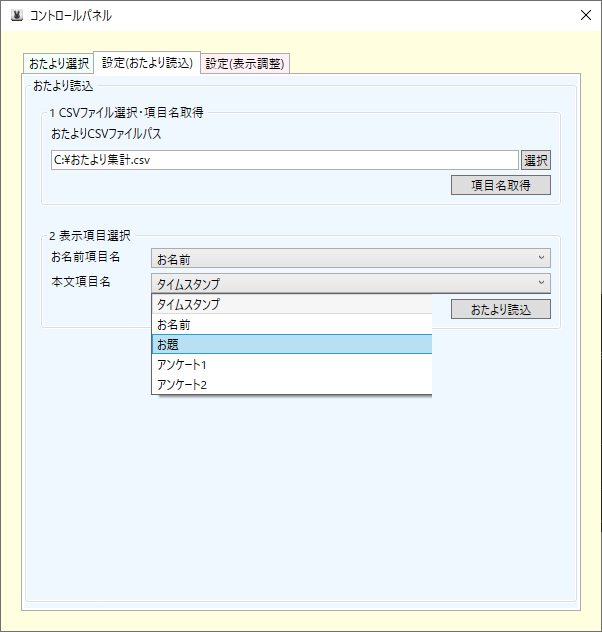
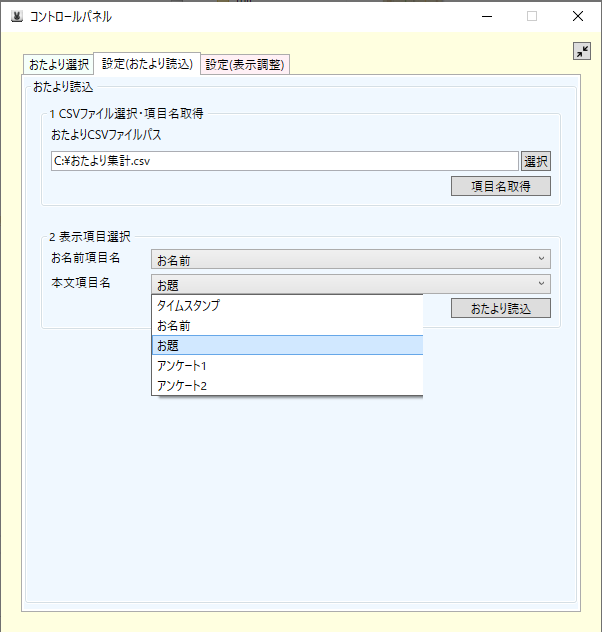
README編集

diff --git a/README.md b/README.md
@@ -4,7 +4,7 @@
 お好みの画像の上にお名前と本文が表示できるよ♪
 
 
-## ☆ちょっとした使い方☆
+## ちょっとした使い方🔰
 
 ### ☆インストールほうほう
 [リリースページ](https://github.com/Kanna-mimimin/TamiradiOtayoriReader/releases)から最新版の「TamiradiOtayoriReader-Ver〇.〇.〇.zip」をダウンロードしてお好みの場所に展開するだけ！
@@ -20,7 +20,7 @@
 <a href="./img/googleforms.png" target="_blank"><img src="./img/googleforms.png" width="200"></a>  
 <br />  
 
-### ☆使ってみる♪
+### ☆使ってみる✨
 1. 起動してみる  
 「TamiradiOtayoriReader.exe」を実行します．
 起動するとデフォルトの画像でおたより画面が表示されます．  
@@ -58,9 +58,25 @@
 <a href="./img/otayori3.png" target="_blank"><img src="./img/otayori3.png" width="250"></a>  
 <br />  
 
+### コントロールパネルを小さくしてみる🆕
+
+コントロールパネル画面右上の縮小ボタンをクリックするとミニコントロールパネルに変化するよ‼  
+<a href="./img/ControlPanel-Nomal.png" target="_blank"><img src="./img/ControlPanel-Nomal.png" width="300"></a>  
+　　⬆  
+　変形‼  
+　　⬇  
+ミニコントロールパネル右下の拡大ボタンをクリックすると通常のコントロールパネルに戻るよ  
+<a href="./img/ControlPanel-Mini.png" target="_blank"><img src="./img/ControlPanel-Mini.png"></a>  
+<br /> 
+
 ### ☆OBSキャプチャ確認
 - ウィンドウキャプチャでキャプチャできることを確認！  
 - フィルタのクロマキーに背景色を指定することで背景の透過を確認♪  
 
-<a href="./img/obs1.png" target="_blank"><img src="./img/obs1.png" width="230"></a>
+<a href="./img/obs1.png" target="_blank"><img src="./img/obs1.png" width="230"></a>  
 <a href="./img/obs2.png" target="_blank"><img src="./img/obs2.png" width="400"></a>  
+<br />  
+
+## 既知の不具合⚠
+* コントロールパネルを開きなおすとラジオボタンの設定内容が壊れる💥  
+➡対策方法が分からないため、コントロールパネルを閉じれないように暫定処置しました💦
